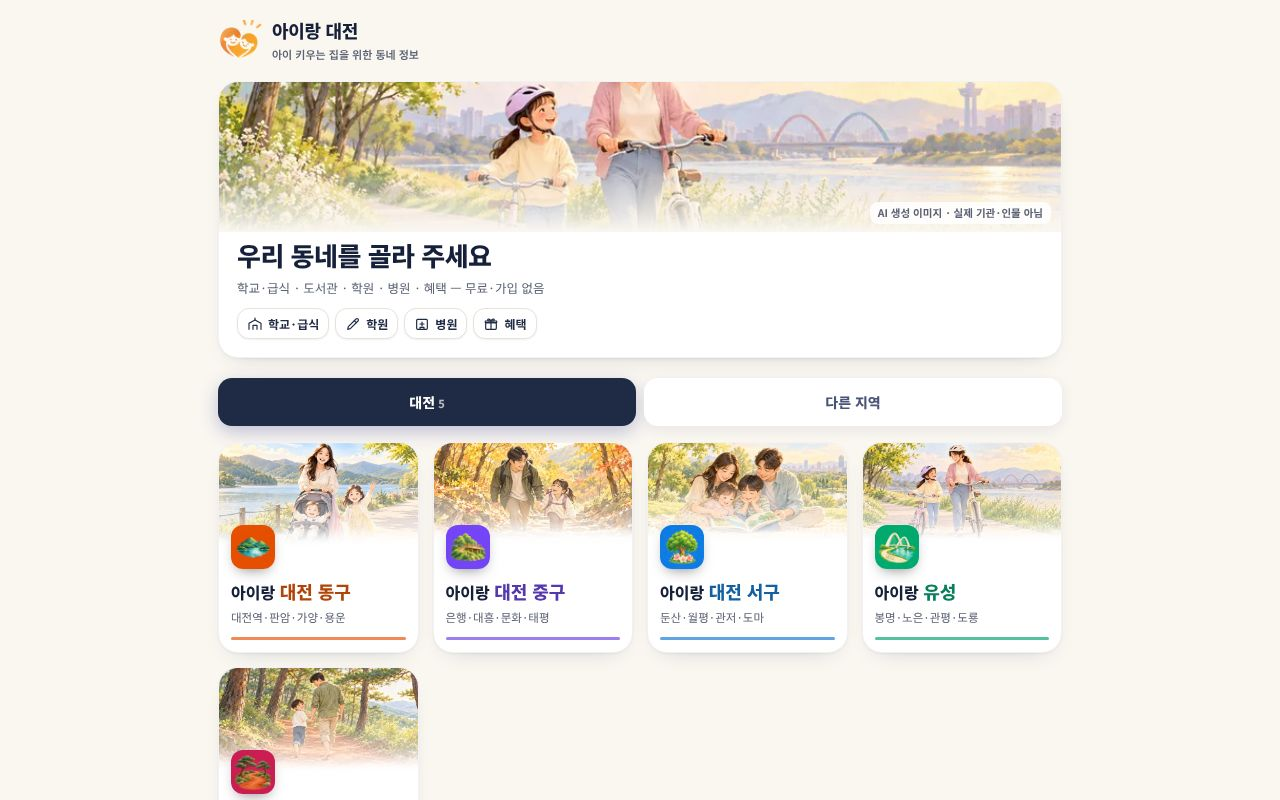
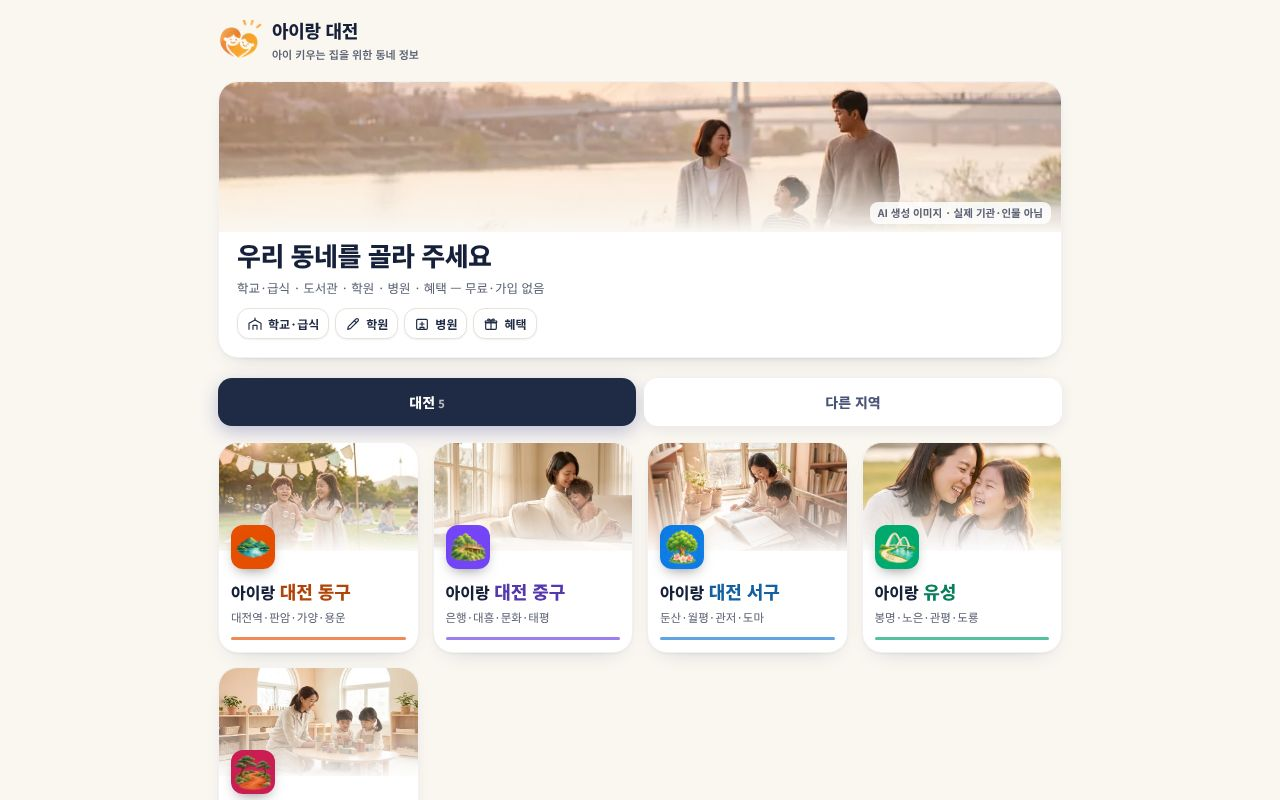
052 입구 삽화 → 기존 실사풍 사진(033) 교체, 카드 AI 표기, 삽화 검사 — 시험 가지
Claude-Session: https://claude.ai/code/session_01Av7xmGvufoCKB7F6raS8o2

Changed region(s): [[0.1562, 0.0938, 0.8438, 0.2812], [0.1562, 0.5312, 0.8438, 0.6875], [0.1562, 0.8125, 0.3438, 0.9688]]

diff --git a/app/entry/index.html b/app/entry/index.html
@@ -15,6 +15,7 @@ body{margin:0;background:radial-gradient(circle at 90% 0%,#E8EBFF,transparent 42
 .lift{background:#fff;border-radius:24px;box-shadow:inset 0 1px 0 #fff,0 1px 2px rgba(20,26,46,.05),0 14px 30px -12px rgba(43,52,120,.24)}
 .top{display:flex;align-items:center;gap:10px}
 .top img{width:40px;height:40px;border-radius:11px;box-shadow:0 4px 10px -4px rgba(0,0,0,.4)}
+.ai-note{margin:8px 2px 0;font-size:12px;color:var(--muted);text-align:right}
 .top img.brandlogo{width:44px;height:39px;border-radius:0;box-shadow:none;object-fit:contain}   /* 2026-11-08 대표 확정 로고(주황 가족 하트) */
 .top b{font-size:18px;font-weight:800;letter-spacing:-.3px}.top small{display:block;font-size:11px;color:var(--muted);font-weight:600;margin-top:1px}
 h1{font-size:28px;font-weight:800;letter-spacing:-.8px;line-height:1.28;margin:26px 2px 8px}
@@ -224,7 +225,7 @@ h2{font-size:var(--fs-h2);font-weight:800;letter-spacing:-.3px}
 <div class="wrap">
   <div class="top"><img class="brandlogo" src="img/logo-symbol.png" width="44" height="39" alt="아이랑 로고"><div><b>아이랑 대전</b><small>아이 키우는 집을 위한 동네 정보</small></div></div>
   <section class="fam lift" aria-label="소개">
-    <div class="fam-pic" style="background-image:url(img/hero-yuseong-800.webp)"><span class="fam-tag">AI 생성 이미지 · 실제 기관·인물 아님</span></div>
+    <div class="fam-pic" style="background-image:image-set(url(img/entry-main-800.webp) 1x,url(img/entry-main-1600.webp) 2x)"><span class="fam-tag">AI 생성 이미지 · 실제 기관·인물 아님</span></div>
     <div class="fam-body">
       <h1>우리 동네를 골라 주세요</h1>
       <p class="sub">학교·급식 · 도서관 · 학원 · 병원 · 혜택 — 무료·가입 없음</p>
@@ -344,7 +345,7 @@ function render(near) {
   const card = ([k, n, c, gu, , , , ci]) => `
     <a class="lift city ${near === k ? "near" : ""}" style="--c:${c};--ci:${ci || c}" href="${url(k)}" onclick="pick('${k}')">
       ${near === k ? `<span class="badge">가까운 곳</span>` : ""}
-      <div class="pic" style="background-image:url(img/hero-${k}-800.webp)"></div>
+      <div class="pic" style="background-image:image-set(url(img/card-${k}-800.webp) 1x,url(img/card-${k}-1600.webp) 2x)"></div>
       <img class="ic" src="img/ic-${k}.png" alt="">
       <div class="body"><div class="nm">아이랑 <span>${n}</span></div><div class="gu">${gu}</div><div class="bar"></div></div>
     </a>`;
@@ -355,7 +356,7 @@ function render(near) {
     ? `<div class="lift other"><b>🌱 다른 지역은 준비 중이에요</b><p>아이랑은 지금 대전광역시에서 먼저 열고 있어요.<br>우리 지역도 열렸으면 좋겠다면 알려 주세요.</p>
         <div class="list">${["강원", "충북", "세종", "전북", "전남", "광주", "경북", "경남", "대구", "울산", "부산", "제주"].map(x => `<span>${x}</span>`).join("")}</div>
         <a class="ask" href="${ASK}">✉ 우리 지역도 열어 주세요</a></div>`
-    : `<div class="grid">${CITIES.filter(x => x[6] === tab).map(card).join("")}</div>`;
+    : `<div class="grid">${CITIES.filter(x => x[6] === tab).map(card).join("")}</div><p class="ai-note">사진은 AI 생성 이미지예요 · 실제 기관·인물 아님</p>`;   // 2026-11-09: 카드 사진 위에 글씨를 얹지 않고 아래에 따로 표기
   const last = CITIES.find(x => x[0] === store.get("airang.city"));
   document.getElementById("again").innerHTML = last ? `
     <a class="lift again" style="--c:${last[2]}" href="${url(last[0])}"><img src="img/ic-${last[0]}.png" alt="">

diff --git a/tests/e2e/design.spec.js b/tests/e2e/design.spec.js
@@ -99,3 +99,34 @@ test("@디자인 입구: 확정 로고·안내 문구·글씨체", async ({ page
   ]);
   await shot(page, "entry");
 });
+
+// 삽화풍 이미지 금지(2026-11-09) — 입구 + 5개 구 앱의 여러 화면에서 실제로 보이는 그림 파일을 모두 모아 검사
+async function usedImages(page) {
+  return page.evaluate(() => {
+    const urls = [...document.images].filter((i) => i.offsetParent).map((i) => i.currentSrc || i.src);
+    document.querySelectorAll("*").forEach((e) => { if (!e.offsetParent && e !== document.body) return; const bg = getComputedStyle(e).backgroundImage; for (const m of bg.matchAll(/url\("?([^")]+)"?\)/g)) urls.push(m[1]); });
+    return [...new Set(urls.map((u) => u.split("/").pop().split("?")[0]))];
+  });
+}
+test("@디자인 삽화풍 이미지 없음(입구 + 5개 구 주요 화면)", async ({ page }) => {
+  test.setTimeout(240_000);   // 화면 51개를 차례로 열어 봄
+  const found = [];
+  await page.goto("/entry/"); await page.waitForLoadState("networkidle");
+  (await usedImages(page)).filter((f) => B.no_illustration.files.includes(f)).forEach((f) => found.push(`입구: ${f}`));
+  for (const key of Object.keys(B.names)) {
+    for (const r of ["home", "my", "saved", "region", "find/" + encodeURIComponent("영어"), "acas", "schools", "hosp", "bene", "kid/new"]) {
+      await page.goto(`/${key}/?r=${encodeURIComponent(r)}#${r}`); await page.waitForLoadState("networkidle");
+      (await usedImages(page)).filter((f) => B.no_illustration.files.includes(f)).forEach((f) => found.push(`${key} #${decodeURIComponent(r)}: ${f}`));
+    }
+  }
+  test.info().annotations.push({ type: found.length ? "불일치" : "일치", description: `삽화풍: ${found.join(" / ") || "없음"}` });
+  expect(found, "고객 화면에 남은 삽화풍 이미지").toEqual([]);
+});
+
+test("@디자인 입구: 카드 사진 AI 생성 표기(사진 밖 별도 줄)", async ({ page }) => {
+  await page.goto("/entry/"); await page.waitForLoadState("networkidle");
+  const t = await page.locator(".ai-note").first().innerText();
+  expect(t, "카드 사진 AI 표기").toContain("AI 생성 이미지");
+  const inside = await page.evaluate(() => { const n = document.querySelector(".ai-note").getBoundingClientRect(); return [...document.querySelectorAll(".city .pic")].some((p) => { const b = p.getBoundingClientRect(); return n.top < b.bottom && n.bottom > b.top && n.left < b.right && n.right > b.left; }); });
+  expect(inside, "표기가 사진 위에 겹침").toBe(false);
+});

diff --git a/app/index.html b/app/index.html
@@ -476,7 +476,7 @@ h2{font-size:var(--fs-h2);font-weight:800;letter-spacing:-.3px}
 </head>
 <body>
 <div class="bg"></div>
-<div class="topscape" id="topscape" hidden><div><picture><source id="topscape-w" media="(min-width:700px)" srcset="assets/hero-{{key}}.webp"><img src="assets/hero-{{key}}-800.webp" srcset="assets/hero-{{key}}-800.webp 800w, assets/hero-{{key}}.webp 1200w" sizes="100vw" width="1200" height="500" alt="" decoding="async"></picture><span class="img-tag">AI 생성 이미지 · 실제 기관·인물 아님</span></div></div>
+<div class="topscape" id="topscape" hidden><div><picture><source id="topscape-w" media="(min-width:700px)" srcset="assets/scenes/entry-w.webp 1600w, assets/scenes/entry-w2.webp 2400w"><img src="assets/scenes/entry-m.webp" srcset="assets/scenes/entry-m.webp 800w, assets/scenes/entry-m2.webp 1400w" sizes="100vw" width="1200" height="500" alt="" decoding="async"></picture><span class="img-tag">AI 생성 이미지 · 실제 기관·인물 아님</span></div></div>
 <main class="wrap" id="view"><div class="loading">불러오는 중…</div></main>
 
 <nav class="nav glass" aria-label="주요 메뉴">
@@ -3075,7 +3075,7 @@ function render() {
       if (im && im.dataset.scene !== (sc || "city")) { im.dataset.scene = sc || "city";
         const srcW = document.getElementById("topscape-w");   // PC(700px 이상)는 가로형(-w), 휴대폰은 4:3(-m 800 / -m2 1400 — 고해상도 화면용)
         if (sc) { im.srcset = `${sc}-m.webp 800w, ${sc}-m2.webp 1400w`; im.sizes = "100vw"; im.src = `${sc}-m.webp`; if (srcW) { srcW.srcset = `${sc}-w.webp 1600w, ${sc}-w2.webp 2400w`; srcW.sizes = "100vw"; } }
-        else { im.srcset = "assets/hero-{{key}}-800.webp 800w, assets/hero-{{key}}.webp 1200w"; im.sizes = "100vw"; im.src = "assets/hero-{{key}}-800.webp"; if (srcW) srcW.srcset = "assets/hero-{{key}}.webp"; } } } }
+        else { im.srcset = "assets/scenes/entry-m.webp 800w, assets/scenes/entry-m2.webp 1400w"; im.sizes = "100vw"; im.src = "assets/scenes/entry-m.webp"; if (srcW) srcW.srcset = "assets/scenes/entry-w.webp 1600w, assets/scenes/entry-w2.webp 2400w"; /* 2026-11-09: 장면 없는 화면도 삽화 대신 실사풍(입구 가족) 사진 */ } } } }
   trackView(r);
   window.scrollTo(0, 0);
   autoInstall(r);

diff --git a/app/build.py b/app/build.py
@@ -172,6 +172,11 @@ def build_entry(out):
         shutil.copy(os.path.join(HERE, "entry", f), d)
     # 2026-11-08: 입구 상단에도 대표 확정 로고(고객 앱과 같은 파일)를 씀 — 새 그림 아님, 복사만
     shutil.copy(os.path.join(HERE, "assets", "brand", "logo-symbol.png"), os.path.join(d, "img", "logo-symbol.png"))
+    # 2026-11-09: 입구 실사풍 사진(033 Runway 생성 원본에서 자른 것 — app/entry/photos). 기존 삽화(hero-<구>)는 지우지 않고 보존
+    ph = os.path.join(HERE, "entry", "photos")
+    if os.path.isdir(ph):
+        for f in os.listdir(ph):
+            if f.endswith(".webp"): shutil.copy(os.path.join(ph, f), os.path.join(d, "img", f))
     for k in CFG["cities"]:
         own = os.path.join(HERE, "cities", k)
         if not os.path.isdir(own):   # 후보 도시(미리보기 빌드)는 그림 폴더가 없을 수 있음 → 대표 그림 자리 비움(경고만)

diff --git a/docs/2026-11-09_아이랑대전_052_실사풍이미지교체_사용권검수_v01후보.md b/docs/2026-11-09_아이랑대전_052_실사풍이미지교체_사용권검수_v01후보.md
@@ -1,0 +1,39 @@
+# 2026-11-09_아이랑대전_052 — 입구 실사풍 이미지 교체 · 사용권 검수 · v01후보
+가지 `photo-replace`(입구 작업 가지 qa-playwright 위 — 지역 홈 수정 home-design-fix와 분리) / **운영 main·배포 변경 없음** / 새 이미지 생성 없음(기존 033 실사풍 원본 재사용, 크레딧 0)
+
+## 교체(레이아웃·디자인 그대로, 그림 파일만)
+| 자리 | 교체 전(삽화) | 교체 후(실사풍) | 원본 | 해상도 |
+|---|---|---|---|---|
+| 입구 메인 | hero-yuseong-800(자전거 엄마·딸 삽화) | entry-main(강변 산책 가족) | 033 01_입구_가족.png 2400×1792 | 800·1600(2배 화면) |
+| 동구 카드 | 호숫가 유모차 삽화 | 비눗방울 놀이 | 033 07_행사_비눗방울 3168×1344 | 800·1600 |
+| 중구 카드 | 등산 아빠·딸 삽화 | 소파 엄마·아이 안김 | 033 08_혜택_안김 | 800·1600 |
+| 서구 카드 | 책 읽는 가족 삽화 | 엄마·아이 책 읽기 | 033 05_학원_책읽기 | 800·1600 |
+| 유성 카드 | 자전거 삽화 | 엄마·딸 웃음(홈 사진과 같은 장면) | 033 02_홈_엄마아이_좌측패널 1579×1344(이음새 없는 판) | 800·1600 |
+| 대덕 카드 | 계족산 삽화 | 선생님·아이 블록 놀이 | 033 03_유치원_교실 | 800·1600 |
+| 앱 안 장면 없는 화면 | hero-<구> 삽화(대체 그림) | 입구 가족 실사풍(scenes/entry) | 033 | 기존 |
+- 원본 삽화(app/cities/<구>/hero-*)는 **지우지 않고 보존**, 고객 화면에서만 빠짐.
+- AI 표기: 메인 사진 아래 띠(얼굴 피함) + 카드 묶음 아래 별도 줄 "사진은 AI 생성 이미지예요 · 실제 기관·인물 아님"(사진 위 글씨 없음)
+- 탈락: 02_홈_엄마아이(가로 확장본) — 가운데 **이음새** 보여 사용 안 함
+
+## 이미지별 사용권 판정
+| 이미지 | 생성·출처 | 상업 이용 | 초상권·미성년자 | 판정 |
+|---|---|---|---|---|
+| 실사풍 6장(입구·카드) + 앱 장면 사진 10장 | Runway(대표 계정, 2026-11-04, 무료 크레딧) | Runway 이용권 안내: 모든 요금제(무료 포함) 생성물 소유·상업 이용 가능 | AI가 만든 가상 인물 — 실존 인물·아동 아님(보호자 동의 대상 아님). 육안상 유명인 닮음 없음(완전 판정 불가) | **사용 가능(조건: AI 생성 표기 유지)** |
+| 확정 로고(주황 가족 하트) | 대표 전달 시안에서 추출 | 생성 도구·약관 기록 없음 | 인물 없음 | **조건부 — 대표가 생성 도구 확인** |
+| 구별 아이콘 5개(ic-<구>) | 대표 전달(GPT 생성, 관리표) | 도구 약관상 이용자 소유로 알려짐, 대표 확인 필요 | 인물 없음 | **조건부** — 또 **삽화풍**이라 피트 기준과 충돌(결정 필요) |
+| 기존 삽화 hero-<구> | 대표 전달(GPT 생성) | 위와 같음 | 가상 인물 | 고객 화면에서 제외(보존만) |
+| 인터넷에서 가져온 사진 | — | — | — | **없음** |
+타 업체 사진·캐릭터 모방: 없음(자체 생성, 간판·상표 없음, 지역 상징은 원경).
+
+## 검사
+- 디자인(@디자인) 32/32: 5개 구 홈 20 + 입구 4 + **삽화풍 이미지 없음(입구 + 5개 구 × 10화면)** 4 + 카드 AI 표기 4
+- 기능 81 통과·3 건너뜀(글꼴 실기기) / 기존 60/60 / 하단 메뉴 가림 0/24
+- 얼굴·손 확대 육안: 손가락 수·얼굴 왜곡 이상 없음(개발자 육안 — 피트·대표 확인 전)
+- 주의: 처음 실행에서 앱 코드 한 줄 실수(주석이 닫는 괄호를 가림)로 화면이 안 떴고, 삽화 검사가 **빈 화면을 '통과'로** 냈음 → 수정 후 전체 재검. 교훈: 삽화 검사는 화면이 정상으로 뜬 것을 함께 확인해야 함
+- 비교 그림: docs/design_qa/2026-11-09/diff_entry_390.jpg·diff_entry_1280.jpg(운영↔가지↔차이), entry_<폭>.jpg
+
+## 오류·남은 문제
+1. 구별 아이콘 5개가 삽화풍 — 교체하려면 새 아이콘 필요(금지) → 결정 필요
+2. 카드 사진이 그 구의 실제 동네 풍경은 아님(장면 사진 재사용) — 오인 방지 표기 있음
+3. 유성 카드와 유성 홈 사진이 같은 장면
+4. 대표 디자인 승인 전, 운영 미반영

diff --git a/docs/design_qa/2026-11-09/design_diff.md b/docs/design_qa/2026-11-09/design_diff.md
@@ -1,5 +1,5 @@
 # 디자인 차이 점검 — 2026-11-09
-기준 origin/main(274327b) ↔ 검수 가지 HEAD(98b6af1) · 자료는 양쪽 동일(디자인만 비교)
+기준 origin/main(274327b) ↔ 검수 가지 HEAD(aeb60ec) · 자료는 양쪽 동일(디자인만 비교)
 
 ## 디자인 파일 차이
 ```
@@ -16,9 +16,9 @@ app/build.py         | 2 ++
 ## 화면 화소 차이(2배 화질, 차이 기준 밝기 24 초과)
 | 화면 | 폭 | 다른 화소 | 그림 |
 |---|---|---|---|
-| entry | 390 | 1.40% | diff_entry_390.jpg |
+| entry | 390 | 21.58% | diff_entry_390.jpg |
 | yuseong_home | 390 | 0.00% | diff_yuseong_home_390.jpg |
-| entry | 1280 | 0.59% | diff_entry_1280.jpg |
+| entry | 1280 | 12.50% | diff_entry_1280.jpg |
 | yuseong_home | 1280 | 0.00% | diff_yuseong_home_1280.jpg |
 
 ## 대표 확정 원본 ↔ 실제
